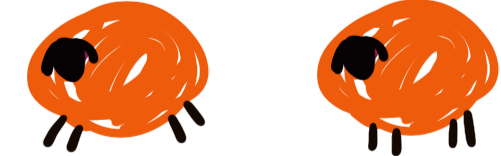
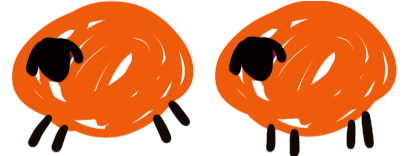
Update some data

diff --git a/UbisoftTorontoAPI_DEC102025Update/src/Game/Core/LevelSystem.cpp b/UbisoftTorontoAPI_DEC102025Update/src/Game/Core/LevelSystem.cpp
@@ -92,11 +92,6 @@ namespace LevelSystem {
     void GenerateRandomUpgrades(UpgradeType upgradeOptions[3]) {
         // Generate 3 random unique upgrades
         std::vector<UpgradeType> allUpgrades = {
-            /*         UpgradeType::HealthBoost,
-                     UpgradeType::SpeedBoost,
-                     UpgradeType::JumpBoost,
-                     UpgradeType::GravityReduction,
-                     UpgradeType::BulletSpeed,*/
                      UpgradeType::AddSheep,
                      UpgradeType::PlayerMachineGun,
                      UpgradeType::PlayerCannon,
@@ -256,47 +251,10 @@ namespace LevelSystem {
             }*/
             return;
         }
-
-        // Find player and apply stat upgrade
-        View<PlayerTag, PlayerStats> view(registry);
-
-        for (EntityID id : view) {
-            auto& stats = view.get<PlayerStats>(id);
-
-            switch (type) {
-            case UpgradeType::HealthBoost:
-                stats.healthBonus += config.healthUpgradeAmount;
-                break;
-
-            case UpgradeType::SpeedBoost:
-                stats.speedBonus += config.speedUpgradeAmount;
-                break;
-
-            case UpgradeType::JumpBoost:
-                stats.jumpBonus += config.jumpUpgradeAmount;
-                break;
-
-            case UpgradeType::GravityReduction:
-                stats.gravityBonus += config.gravityUpgradeAmount;
-                break;
-
-            case UpgradeType::BulletSpeed:
-                stats.bulletSpeedBonus += config.bulletSpeedUpgradeAmount;
-                break;
-
-            default:
-                break;
-            }
-        }
     }
 
     const char* GetUpgradeName(UpgradeType type) {
         switch (type) {
-        case UpgradeType::HealthBoost: return "Health Boost";
-        case UpgradeType::SpeedBoost: return "Speed Boost";
-        case UpgradeType::JumpBoost: return "Jump Boost";
-        case UpgradeType::GravityReduction: return "Gravity Reduction";
-        case UpgradeType::BulletSpeed: return "Bullet Speed";
         case UpgradeType::AddSheep: return "Add Sheep";
         case UpgradeType::PlayerMachineGun: return "Player Machine Gun";
         case UpgradeType::PlayerCannon: return "Player Cannon";
@@ -311,11 +269,6 @@ namespace LevelSystem {
         static char sheepDesc[64];
 
         switch (type) {
-        case UpgradeType::HealthBoost: return "Increase max health +20";
-        case UpgradeType::SpeedBoost: return "Movement speed +50";
-        case UpgradeType::JumpBoost: return "Jump velocity +100";
-        case UpgradeType::GravityReduction: return "Lighter jumps (gravity -100)";
-        case UpgradeType::BulletSpeed: return "Bullet speed +100";
         case UpgradeType::AddSheep:
             snprintf(sheepDesc, sizeof(sheepDesc), "Add %d more sheep", config.sheepAddedPerUpgrade);
             return sheepDesc;

diff --git a/UbisoftTorontoAPI_DEC102025Update/src/Game/Core/SheepSystem.cpp b/UbisoftTorontoAPI_DEC102025Update/src/Game/Core/SheepSystem.cpp
@@ -280,7 +280,7 @@ namespace SheepSystem {
                     // Enhanced: stronger repulsion for very close neighbors
                     float mySheepSize = t.width;
                     float otherSheepSize = ot.width;
-                    float minDist = (mySheepSize + otherSheepSize) * 0.9f;  // Minimum safe distance
+                    float minDist = (mySheepSize + otherSheepSize) * 1.5f;  // Minimum safe distance
 
                     if (dist < minDist) {
                         // Very close - strong repulsion to prevent overlap

diff --git a/UbisoftTorontoAPI_DEC102025Update/src/Game/Core/LevelSystem.h b/UbisoftTorontoAPI_DEC102025Update/src/Game/Core/LevelSystem.h
@@ -8,12 +8,6 @@
 namespace LevelSystem {
     // Upgrade types available
     enum class UpgradeType {
-        // Player attribute upgrades
-        HealthBoost,
-        SpeedBoost,
-        JumpBoost,
-        GravityReduction,
-        BulletSpeed,
 
         // Entity upgrades
         AddSheep,  // Add more sheep
